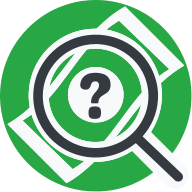
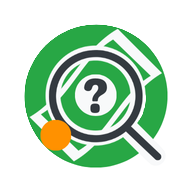
Cambio de iconos (prueba)

diff --git a/frontend/vite.config.js b/frontend/vite.config.js
@@ -30,7 +30,7 @@ export default defineConfig({
                         purpose: "any",
                     },
                     {
-                        src: "/icon_test2.png",
+                        src: "/pwa-512x512.png",
                         sizes: "512x512",
                         type: "image/png",
                         purpose: "maskable",
